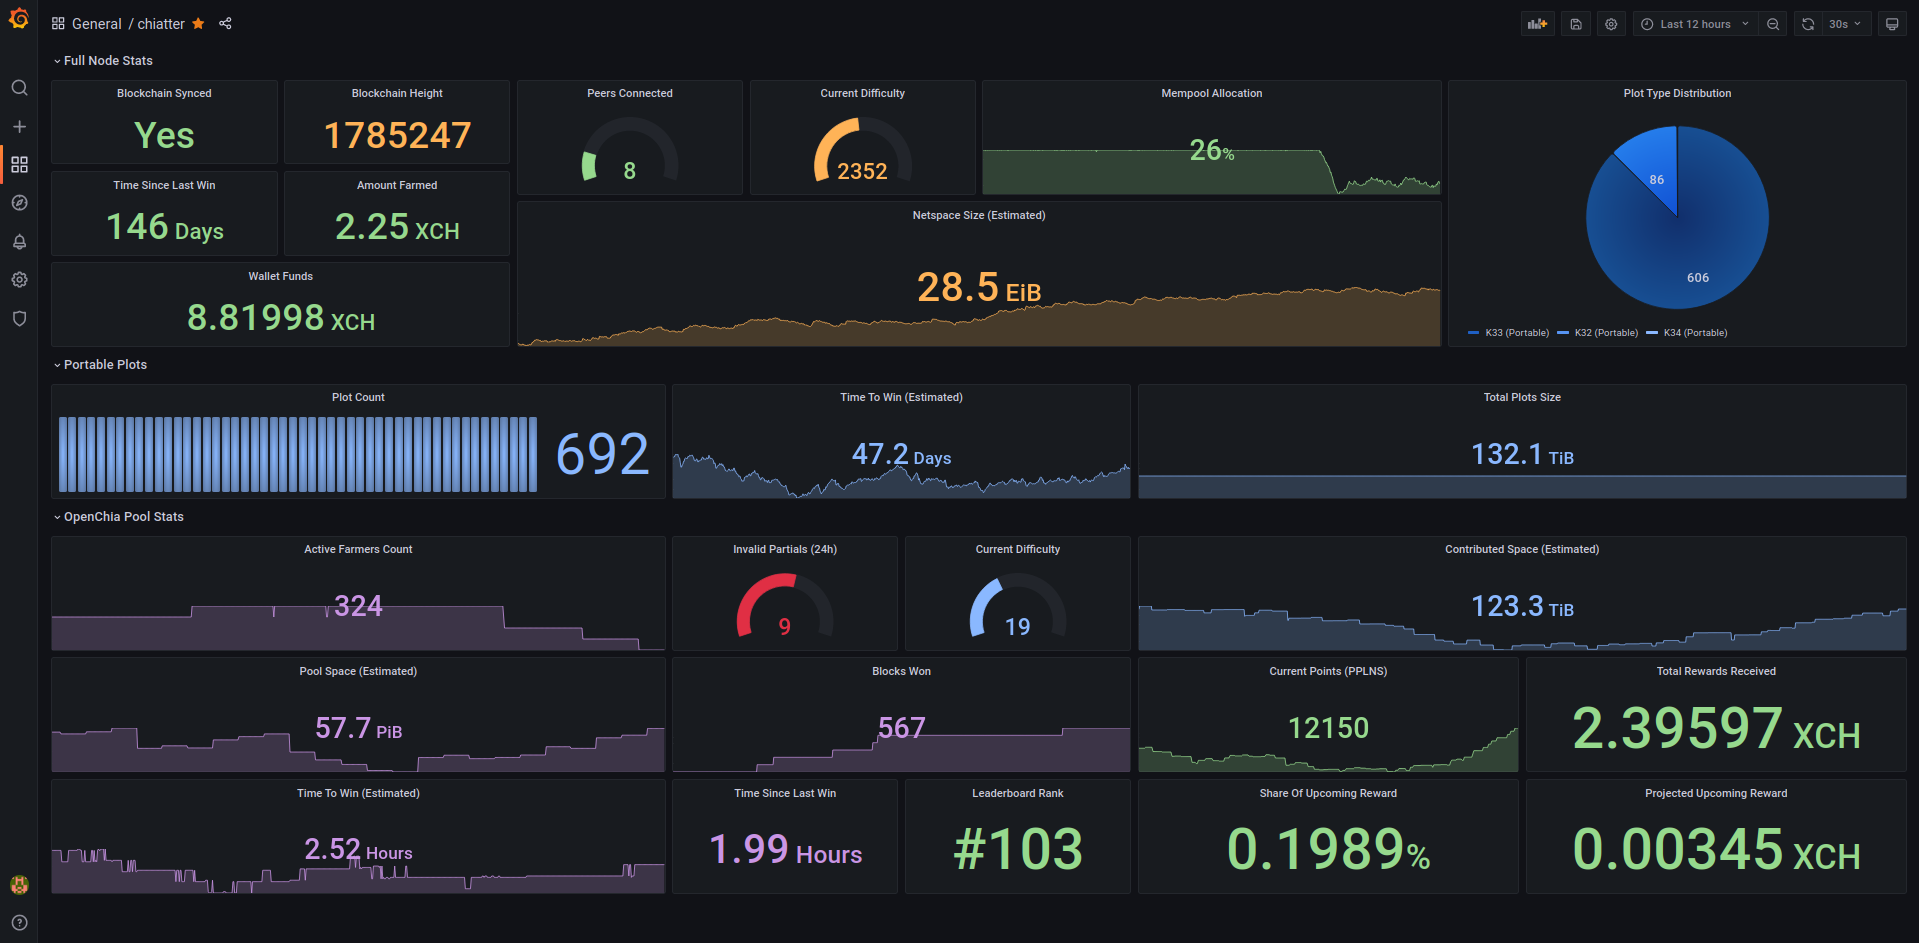
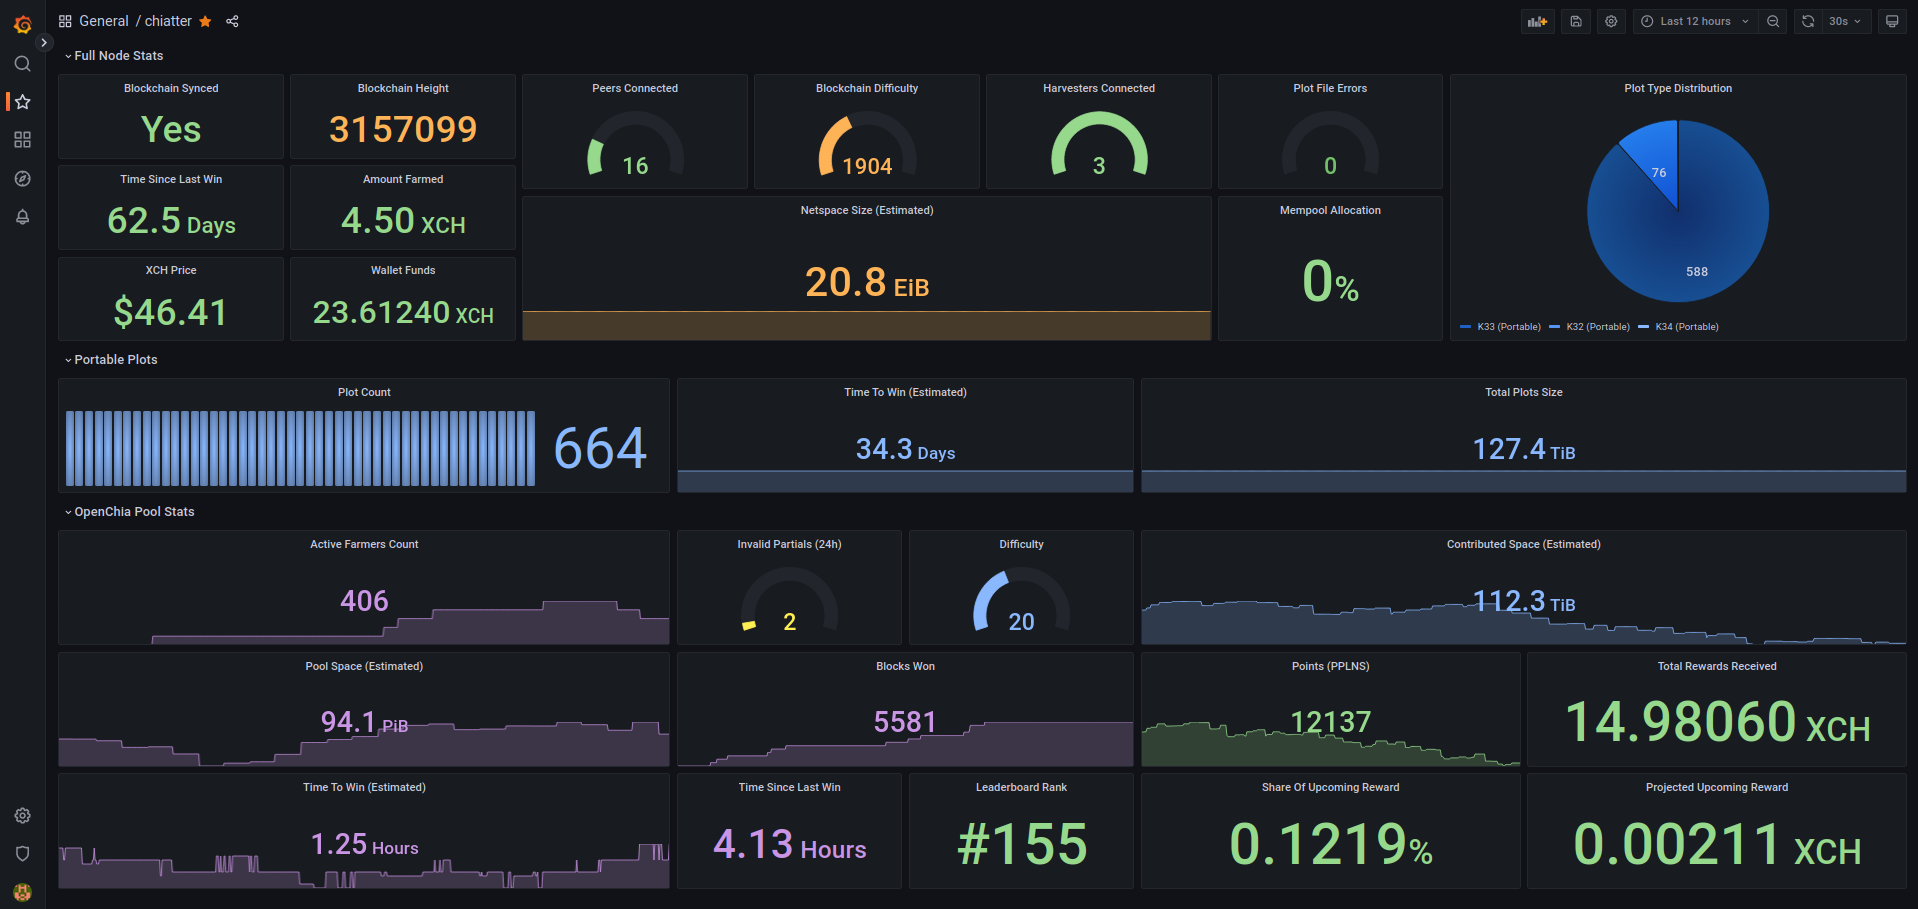
Fixed asyncio loop deprecation warning & added more tracked parameters (harvesters + plot file errors)

diff --git a/scripts/chiatter.py b/scripts/chiatter.py
@@ -1,8 +1,8 @@
 #!/usr/bin/env python3
 '''
 @author: Winter Snowfall
-@version: 3.00
-@date: 02/12/2022
+@version: 3.10
+@date: 24/01/2023
 
 Warning: Built for use with python 3.6+
 '''
@@ -34,13 +34,22 @@ def sigint_handler(signum, frame):
     
     raise SystemExit(0)
 
-def chia_stats_worker(loop, counter_lock, terminate_event, error_counters):
+def chia_stats_worker(counter_lock, terminate_event, error_counters):
+    
+    loop = asyncio.new_event_loop()
+    asyncio.set_event_loop(loop)
+    coroutine = chia_stats_inst.collect_stats()
     
     while not terminate_event.is_set():
         try:
             #you'll have to excuse me here, but I simply h8 asyncio
-            coroutine = chia_stats_inst.collect_stats()
             loop.run_until_complete(coroutine)
+            
+            chia_stats_harvesters.set(chia_stats_inst.harvesters)
+            
+            chia_stats_duplicate_plots.set(chia_stats_inst.plots_duplicates)
+            chia_stats_failed_to_open_plots.set(chia_stats_inst.plots_failed_to_open)
+            chia_stats_no_key_plots.set(chia_stats_inst.plots_no_key)
             
             chia_stats_portable_size.set(chia_stats_inst.portable_size)
             chia_stats_portable_plots_k32.set(chia_stats_inst.plots_portable_k32)
@@ -161,6 +170,12 @@ if __name__ == '__main__':
     ### Prometheus client metrics ####################################################################################################################
     
     #--------------------------------------------------------- chia_stats ----------------------------------------------------------------------------
+    chia_stats_harvesters = Gauge('chia_stats_harvesters', 'Number of connected harvesters, as seen by the farmer')
+    
+    chia_stats_duplicate_plots = Gauge('chia_stats_duplicate_plots', 'Number of duplicate plots across all harvesters')
+    chia_stats_failed_to_open_plots = Gauge('chia_stats_failed_to_open_plots', 'Number of plots with access errors across all harvesters')
+    chia_stats_no_key_plots = Gauge('chia_stats_no_key_plots', 'Number of plots without a valid key across all harvesters')
+    
     chia_stats_portable_size = Gauge('chia_stats_portable_size', 'Total size of portable plots')
     chia_stats_portable_plots_k32 = Gauge('chia_stats_portable_plots_k32', 'Number of portable k32 plots')
     chia_stats_portable_plots_k33 = Gauge('chia_stats_portable_plots_k33', 'Number of portable k33 plots')
@@ -242,8 +257,7 @@ if __name__ == '__main__':
     
     try:
         if CHIA_STATS_MODULE:
-            loop = asyncio.get_event_loop()
-            chia_stats_thread = threading.Thread(target=chia_stats_worker, args=(loop, counter_lock, 
+            chia_stats_thread = threading.Thread(target=chia_stats_worker, args=(counter_lock, 
                                                                                  terminate_event, error_counters), 
                                                  daemon=True)
             chia_stats_thread.start()

diff --git a/scripts/modules/chia_stats.py b/scripts/modules/chia_stats.py
@@ -1,8 +1,8 @@
 #!/usr/bin/env python3
 '''
 @author: Winter Snowfall
-@version: 3.00
-@date: 02/12/2022
+@version: 3.10
+@date: 24/01/2023
 
 Warning: Built for use with python 3.6+
 '''
@@ -47,6 +47,10 @@ class chia_stats:
         self._seconds_since_last_win_stale = False
         self._last_win_max_time = 0
         
+        self.harvesters = 0
+        self.plots_duplicates = 0
+        self.plots_failed_to_open = 0
+        self.plots_no_key = 0
         self.og_size = 0
         self.portable_size = 0
         self.sp_portable_size = 0
@@ -92,6 +96,10 @@ class chia_stats:
         self._wallet_port = self._config['wallet']['rpc_port']
     
     def clear_stats(self):
+        self.harvesters = 0
+        self.plots_duplicates = 0
+        self.plots_failed_to_open = 0
+        self.plots_no_key = 0
         self.og_size = 0
         self.portable_size = 0
         self.sp_portable_size = 0
@@ -141,6 +149,10 @@ class chia_stats:
             #will scrape the local harvester as well as any remote harvesters
             harvesters = await farmer.get_harvesters()
             
+            self.harvesters = 0
+            self.plots_duplicates = 0
+            self.plots_failed_to_open = 0
+            self.plots_no_key = 0
             self.og_size = 0
             self.plots_og_k32 = 0
             self.plots_og_k33 = 0
@@ -155,6 +167,12 @@ class chia_stats:
             self.plots_sp_portable_k34 = 0
             
             for harvester in harvesters['harvesters']:
+                self.harvesters += 1
+                
+                self.plots_duplicates += len(harvester['duplicates'])
+                self.plots_failed_to_open += len(harvester['failed_to_open_filenames'])
+                self.plots_no_key += len(harvester['no_key_filenames'])
+                
                 for plot in harvester['plots']:
                     if plot['pool_public_key'] is not None:
                         self.og_size += plot['file_size']
@@ -196,6 +214,10 @@ class chia_stats:
                             #logger.debug('Found k34 portable plot!')
                             self.plots_portable_k34 += 1
             
+            logger.debug(f'harvesters: {self.harvesters}')
+            logger.debug(f'plots_duplicates: {self.plots_duplicates}')
+            logger.debug(f'plots_failed_to_open: {self.plots_failed_to_open}')
+            logger.debug(f'plots_no_key: {self.plots_no_key}')
             logger.debug(f'og_size: {self.og_size}')
             logger.debug(f'portable_size: {self.portable_size}')
             logger.debug(f'sp_portable_size: {self.sp_portable_size}')

diff --git a/scripts/modules/openchia_stats.py b/scripts/modules/openchia_stats.py
@@ -1,8 +1,8 @@
 #!/usr/bin/env python3
 '''
 @author: Winter Snowfall
-@version: 3.00
-@date: 02/12/2022
+@version: 3.10
+@date: 24/01/2023
 
 Warning: Built for use with python 3.6+
 '''
@@ -32,7 +32,7 @@ class openchia_stats:
     
     _logging_level = logging.WARNING
     
-    HTTP_SUCCESS_OK = 200
+    HTTP_OK = 200
     HTTP_TIMEOUT = 30
     
     #ordering used for the farmer ranking query
@@ -119,7 +119,7 @@ class openchia_stats:
                 
                 logger.debug(f'HTTP response code: {response.status_code}')
                 
-                if response.status_code == openchia_stats.HTTP_SUCCESS_OK:
+                if response.status_code == openchia_stats.HTTP_OK:
                     pool_stats_json = json.loads(response.text, object_pairs_hook=OrderedDict)
                     
                     self.pool_space = pool_stats_json['pool_space']
@@ -156,7 +156,7 @@ class openchia_stats:
                 
                 logger.debug(f'HTTP response code: {response.status_code}')
                 
-                if response.status_code == openchia_stats.HTTP_SUCCESS_OK:
+                if response.status_code == openchia_stats.HTTP_OK:
                     global_farmer_stats_json = json.loads(response.text, object_pairs_hook=OrderedDict)['results']
                     
                     launcher_iterator = iter(global_farmer_stats_json)
@@ -185,7 +185,7 @@ class openchia_stats:
                 
                 logger.debug(f'HTTP response code: {response.status_code}')
                 
-                if response.status_code == openchia_stats.HTTP_SUCCESS_OK:
+                if response.status_code == openchia_stats.HTTP_OK:
                     launcher_stats_json = json.loads(response.text, object_pairs_hook=OrderedDict)
                     
                     self.launcher_points = launcher_stats_json['points']
@@ -219,7 +219,7 @@ class openchia_stats:
                     logger.debug(f'HTTP response code: {response.status_code}')
                     
                     try:
-                        if response.status_code == openchia_stats.HTTP_SUCCESS_OK:
+                        if response.status_code == openchia_stats.HTTP_OK:
                             block_stats_json = json.loads(response.text, object_pairs_hook=OrderedDict)['results']
                             
                             block_timestamp = int(block_stats_json[0]['timestamp'])
